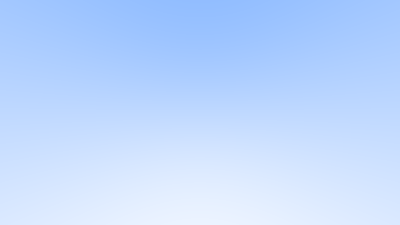
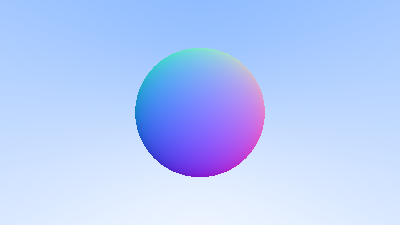
implemented sphere intersection

Changed region(s): [[0.33, 0.1867, 0.66, 0.8089]]

diff --git a/raytracer.py b/raytracer.py
@@ -1,3 +1,4 @@
+import math
 import numpy as np
 from PIL import Image
 
@@ -15,7 +16,36 @@ class Ray:
     def position(self, time: float) -> np.ndarray:
         return self.origin + self.direction * time
     
+def hit_sphere(center: np.ndarray, radius: float, ray: Ray) -> float | None:
+    o_minus_c = ray.origin - center
+    a = np.dot(ray.direction, ray.direction)
+    b = 2.0 * np.dot(o_minus_c, ray.direction)
+    c = np.dot(o_minus_c, o_minus_c) - radius * radius
+
+    b_squared_minus_4ac = b * b - 4 * a * c
+    if b_squared_minus_4ac < 0:
+        return None
+    
+    solution = (-b - math.sqrt(b_squared_minus_4ac)) / (2 * a)
+    if solution > 0:
+        return solution
+    solution = (-b + math.sqrt(b_squared_minus_4ac)) / (2 * a)
+    if solution > 0:
+        return solution
+    return None
+
 def ray_to_sky_color(ray: Ray) -> np.ndarray:
+
+    random_sphere_center = np.array([0.0, 0.0, -1.0], dtype=np.float32)
+    random_sphere_radius = 0.5
+
+    time_hit_sphere = hit_sphere(random_sphere_center, random_sphere_radius, ray)
+
+    if time_hit_sphere:
+        position_hit_sphere = ray.position(time_hit_sphere)
+        normal = normalize(position_hit_sphere - random_sphere_center)
+        return 0.5 * (normal + 1.0)
+
     unit_direction = normalize(ray.direction)
     blueness = .5 * (unit_direction[1] + 1.0)
     white = np.array([1.0, 1.0, 1.0], dtype=np.float32)
